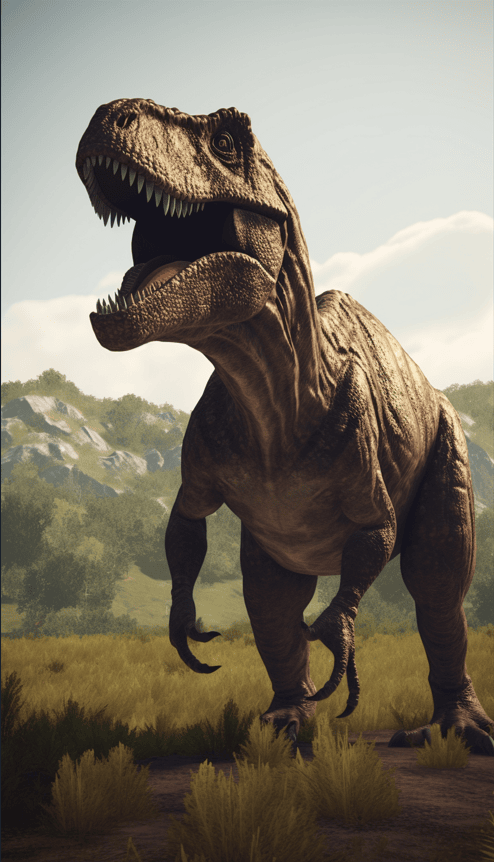
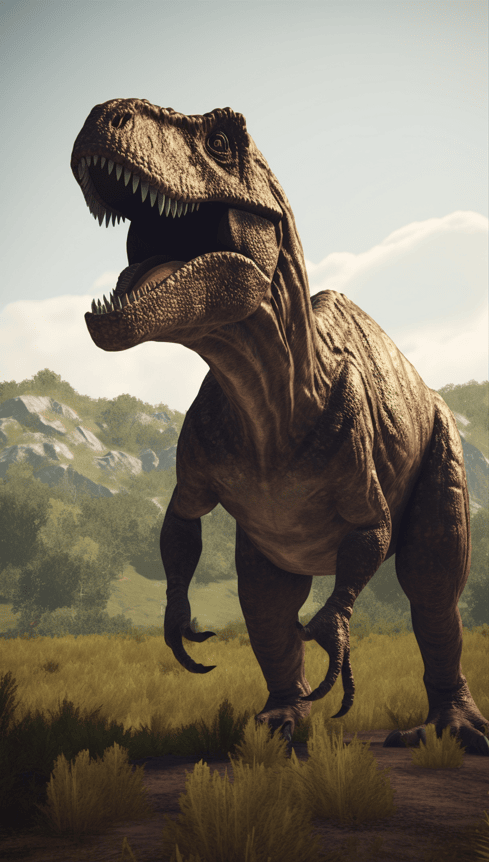
Changes

diff --git a/HTML/exhibits.html b/HTML/exhibits.html
@@ -66,7 +66,7 @@
 
 <main class="wrapper">
     <div class="card">
-        <img src="/IMAGES/bear.png" alt="A polar bear and its cub on an iceflake in the ocean">
+        <img src="/IMAGES/bear.png" id="polarbear" alt="A polar bear and its cub on an iceflake in the ocean">
         <div class="info">
             <h1 class="card-title">ECOLOGY</h1>
             <p>
@@ -91,7 +91,7 @@
     </div>
 
     <div class="card">
-        <img src="/IMAGES/dinosaur.png" alt="A roaring dinosaur on a cliff with a lake and mountains behind it">
+        <img src="/IMAGES/dinosaur.png" id="dinosaur" alt="A roaring dinosaur on a cliff with a lake and mountains behind it">
         <div class="info">
             <h1 class="card-title">EVOLUTION</h1>
             <p>
@@ -115,7 +115,7 @@
     </div>
 
     <div class="card">
-        <img src="/IMAGES/robot.png" alt="A large, black and white robot with blue eyes in front of big windows">
+        <img src="/IMAGES/robot.png" id="robot" alt="A large, black and white robot with blue eyes in front of big windows">
         <div class="info">
             <h1 class="card-title">ROBOTICS</h1>
             <p>

diff --git a/CSS/exhibits.css b/CSS/exhibits.css
@@ -229,3 +229,40 @@ body {
 
 /*--------------MEDIA QUERIES---------------*/ 
 
+@media only screen and (min-width: 0px) and (max-width: 1180px) {
+    .wrapper {
+        display: grid;
+        grid-template-columns: 1fr;
+        gap: 40px;
+        padding-top: 20px;
+    }
+
+    .card {
+        height: 40vh;
+    }
+
+    #polarbear {
+        object-position: 20% 45%;
+    }
+
+    #turtle {
+        object-position: 20% 35%;
+    }
+
+    #dinosaur {
+        object-position: 30% 15%;
+    }
+
+    #robot {
+        object-position: 30% 5%;
+    }
+
+    .text-wrapper {
+        padding-top: 50px;
+    }
+
+    .text {
+        width: 80%;
+        padding: 20px 0px;
+    }
+}
